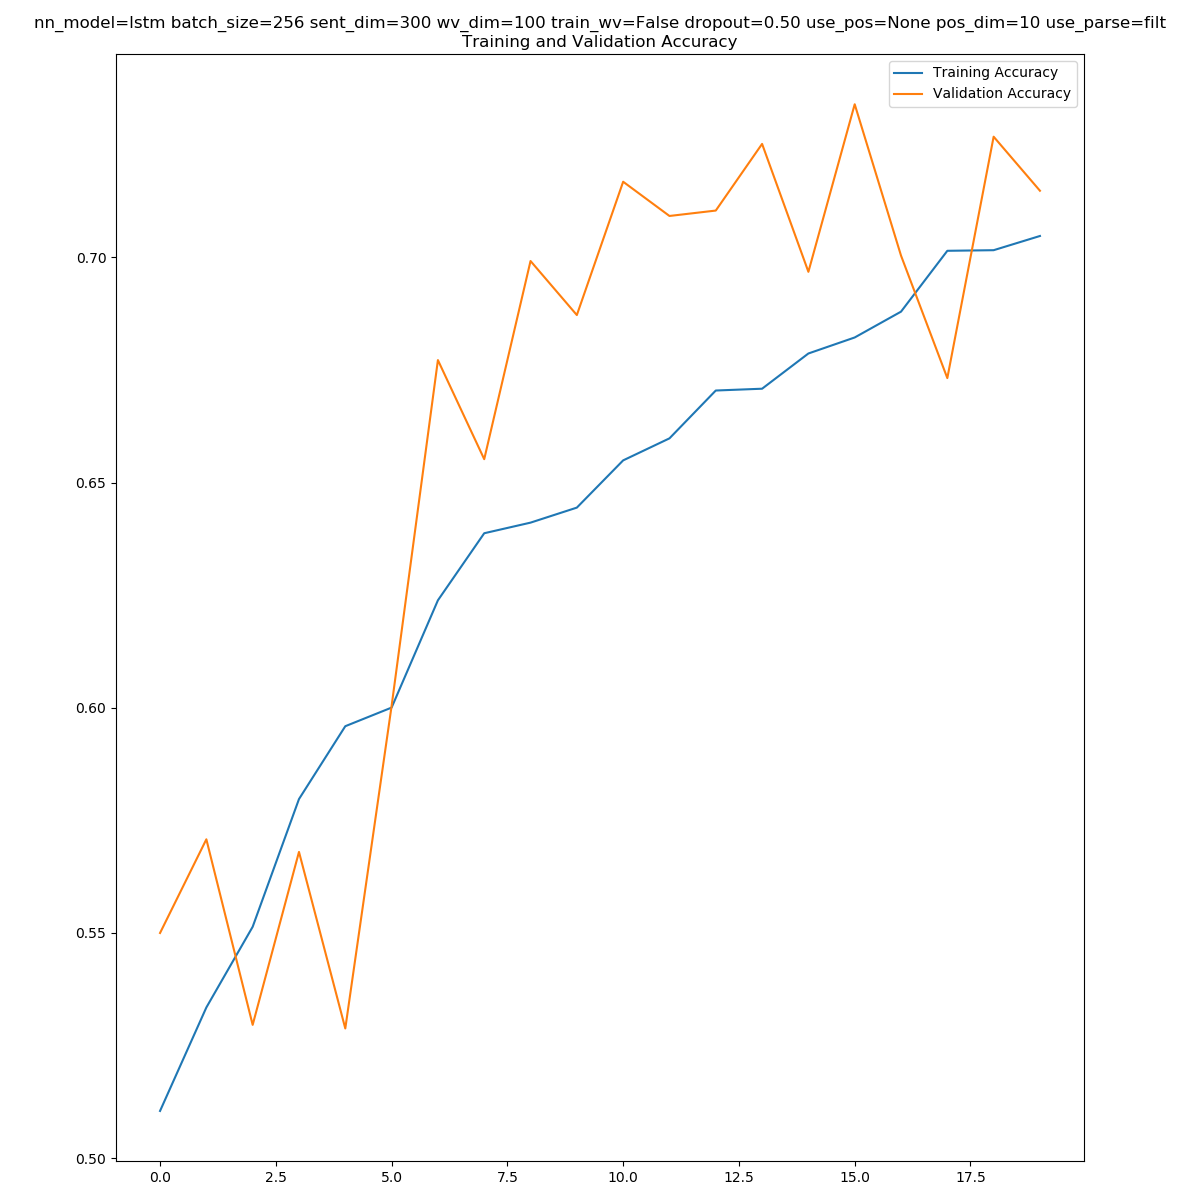
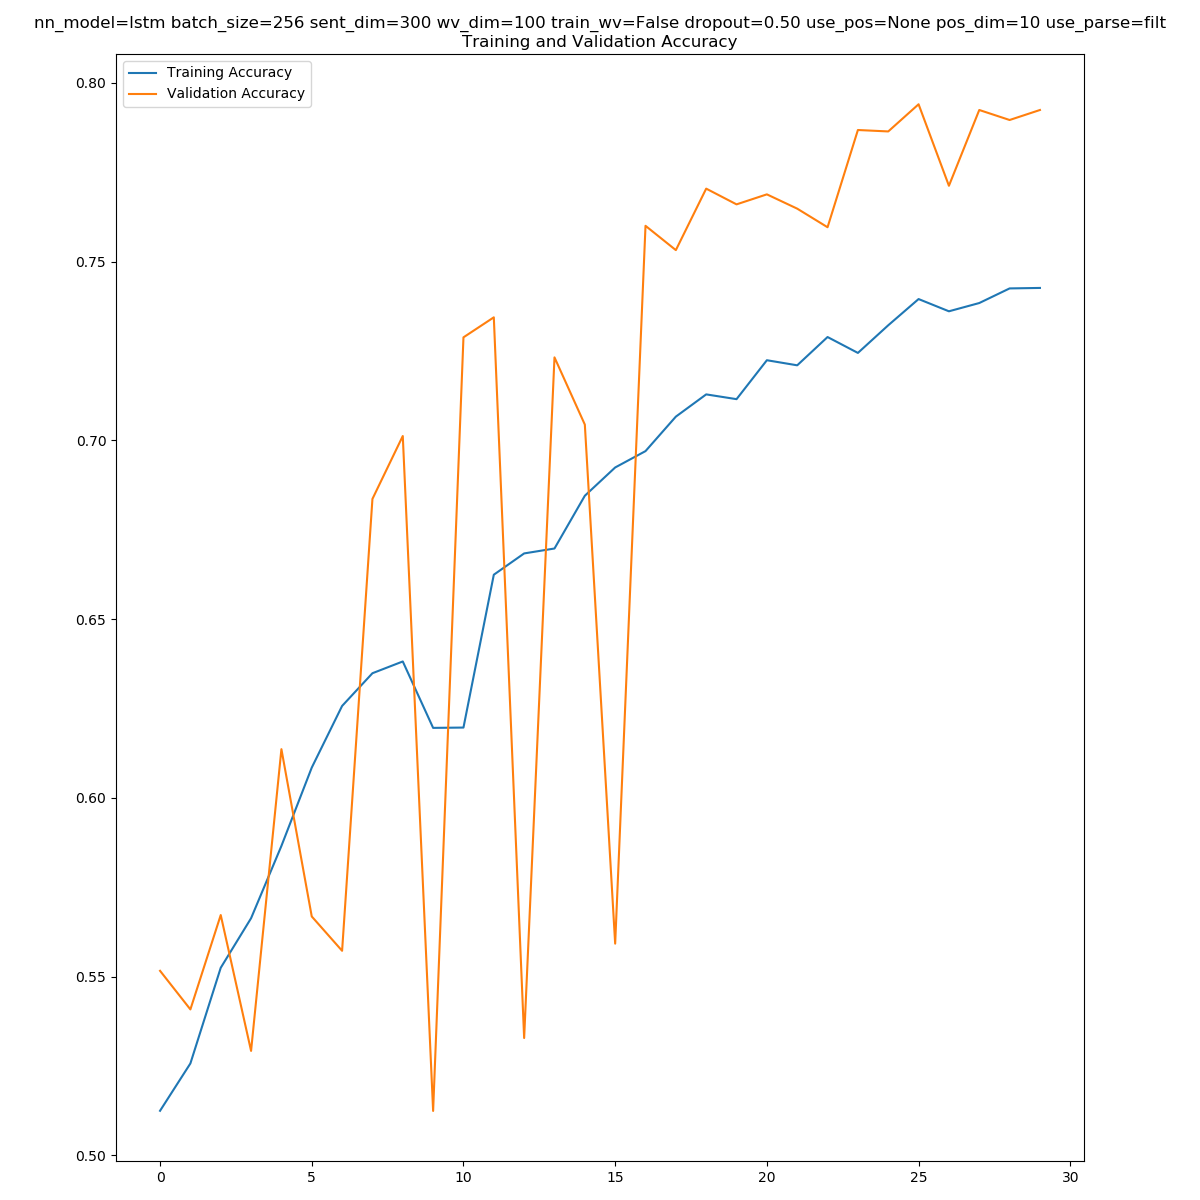
Added sample result with parse tree dependency as filter matrix

diff --git a/main.py b/main.py
@@ -130,14 +130,14 @@ if __name__ == '__main__':
     # use_parse = [None, 'filt', 'concat']
     # ---------------------------------
     dropout = 0.5
-    epochs = 20
+    epochs = 30
     pos_dim = 10
     batch_size = 256
     sent_dim = [300]
     nn_models = ['lstm', 'cnn', 'ff']
     train_wv = [False, True]
     use_pos = [None, 'embed', 'one_hot']
-    use_parse = [None]
+    use_parse = ['filt']
 
     # Load data
     df_train_val, df_test = load_data('df_train.pkl', 'df_test.pkl')

diff --git a/README.md b/README.md
@@ -1,1 +1,13 @@
-# COMP550-Project
+# COMP 550 Project - Group 1
+### Effect of Additional Linguistic Information on Word Embeddings  
+
+- Comp 550 - Final Project - Fall 2018    
+- Group 1 - Andrei Mircea (260585208) - Stefan Wapnick (id 260461342)  
+- Implemented using Python 3, keras and tensorflow
+
+## Project Overview
+Sentiment analysis is an important application of Natural Language Processing (NLP) with widespread use in industry, where distilled information on opinion can be a significant source of value. Typically, this task is framed as a text classification problem whereby a text document is categorized within predefined sentiment labels. 
+
+Over the past decade, deep learning (DL) has become a popular machine learning approach, yielding state-of-the-art results on such text classification tasks. The input features to these DL models are generally word embeddings which encode word co-occurrence information; and by extension, some degree of semantic information.
+
+However, this approach ignores explicit syntactic information traditionally used in NLP, such as dependency parse trees and part-of-speech (POS) tags. There is conflicting information as to whether or not this information can improve performance of DL models on NLP tasks such as text classification for sentiment analysis. To address this, we propose a novel approach for adding POS tag and dependency parse information to the input features of three different DL models (CNN, BiLSTM and simple feed-forward). We then isolate and evaluate the impact of this approach on polarity classification in the IMDB review dataset.
